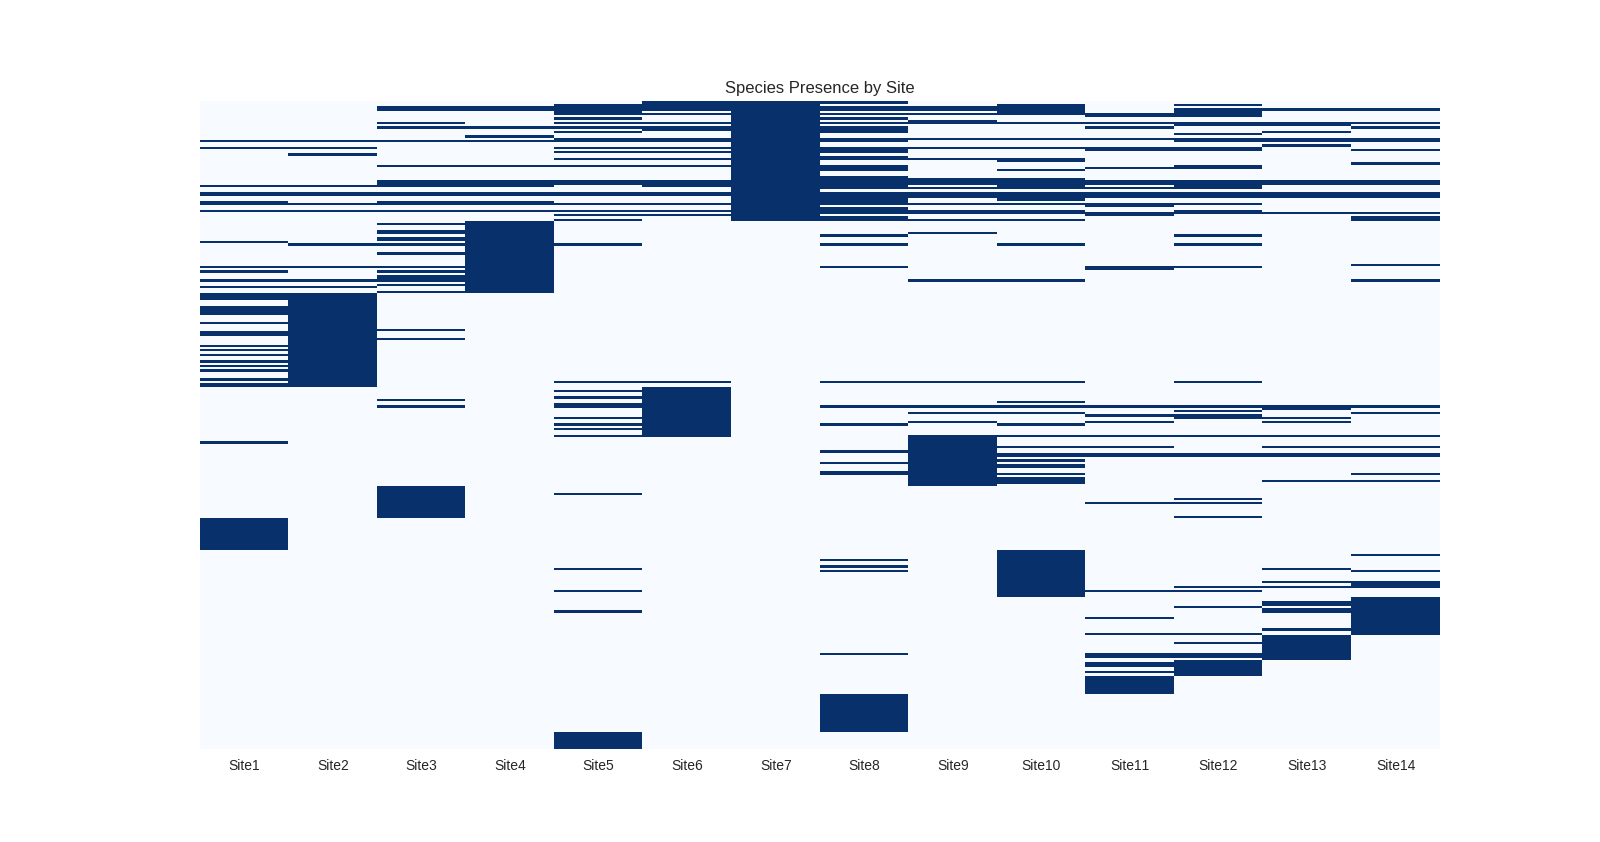
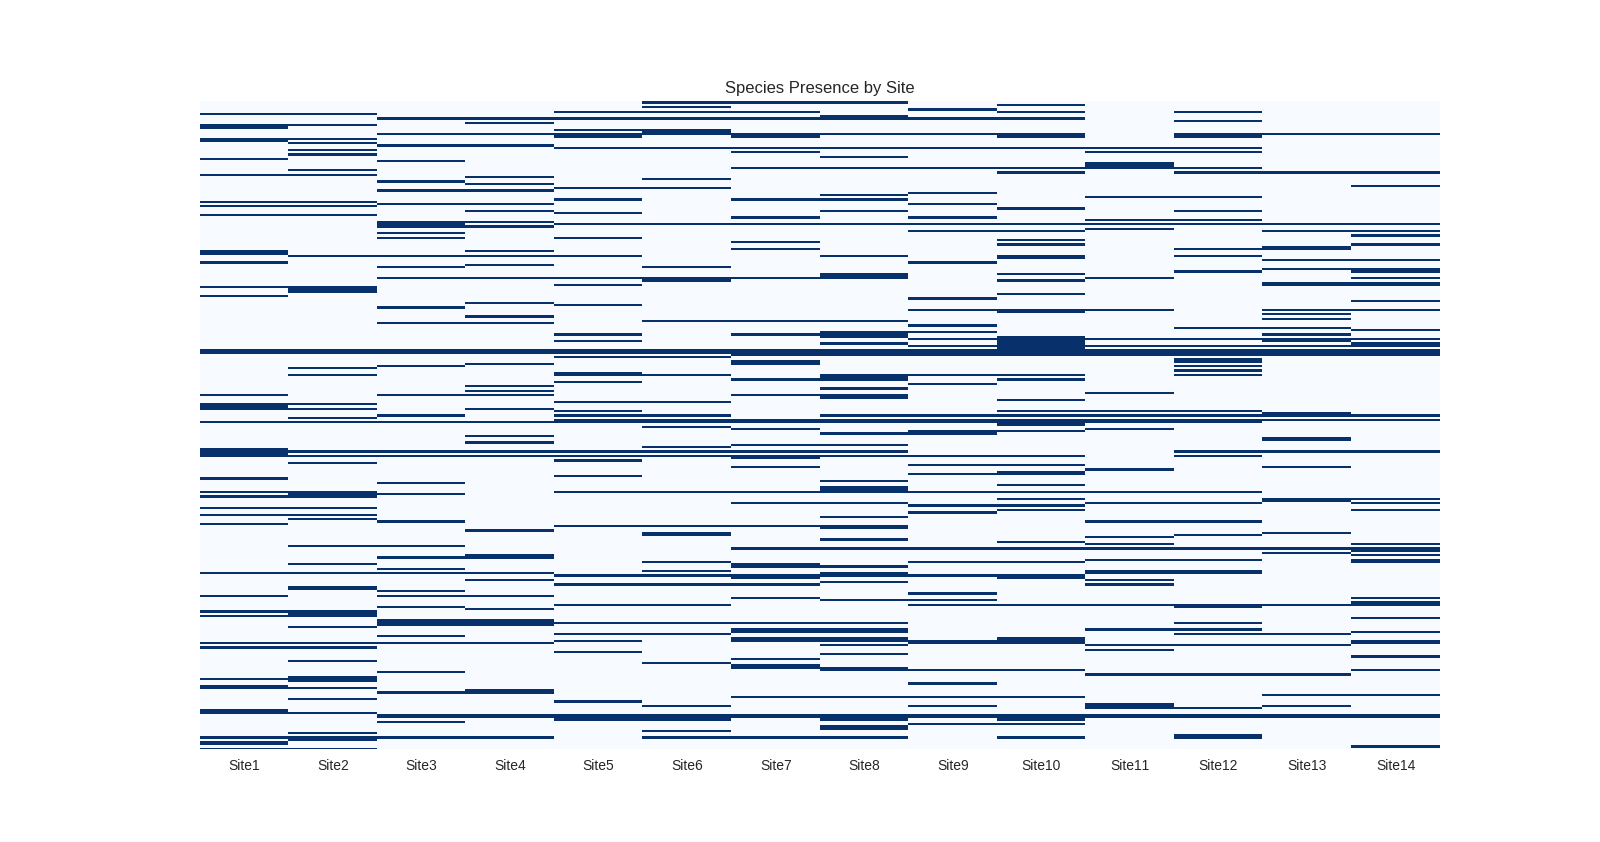
sort species alphabetically for presence plot

Changed region(s): [[0.125, 0.1235, 0.9062, 0.8955]]

diff --git a/plnt_poll_site.py b/plnt_poll_site.py
@@ -91,6 +91,7 @@ def check_superset():
                 species_list.append(species)
 
     all_species_df_cols = ["Site"+str(l) for l in range(1, 15)]
+    species_list.sort()
     all_species_df = pd.DataFrame({sn:[0]*len(species_list) for sn in all_species_df_cols},
                                   index=species_list)
 
@@ -115,6 +116,7 @@ def check_superset():
 
     all_species_df = all_species_df[["Site1", "Site2", "Site3", "Site4", "Site5", "Site6", "Site7",
                                      "Site8", "Site9", "Site10", "Site11", "Site12", "Site13", "Site14"]]
+    all_species_df.to_csv("all.csv")
     ax = sns.heatmap(all_species_df, cmap="Blues",
                      yticklabels=False, cbar=False,
                      vmin=0, vmax=1, center=0.5)
